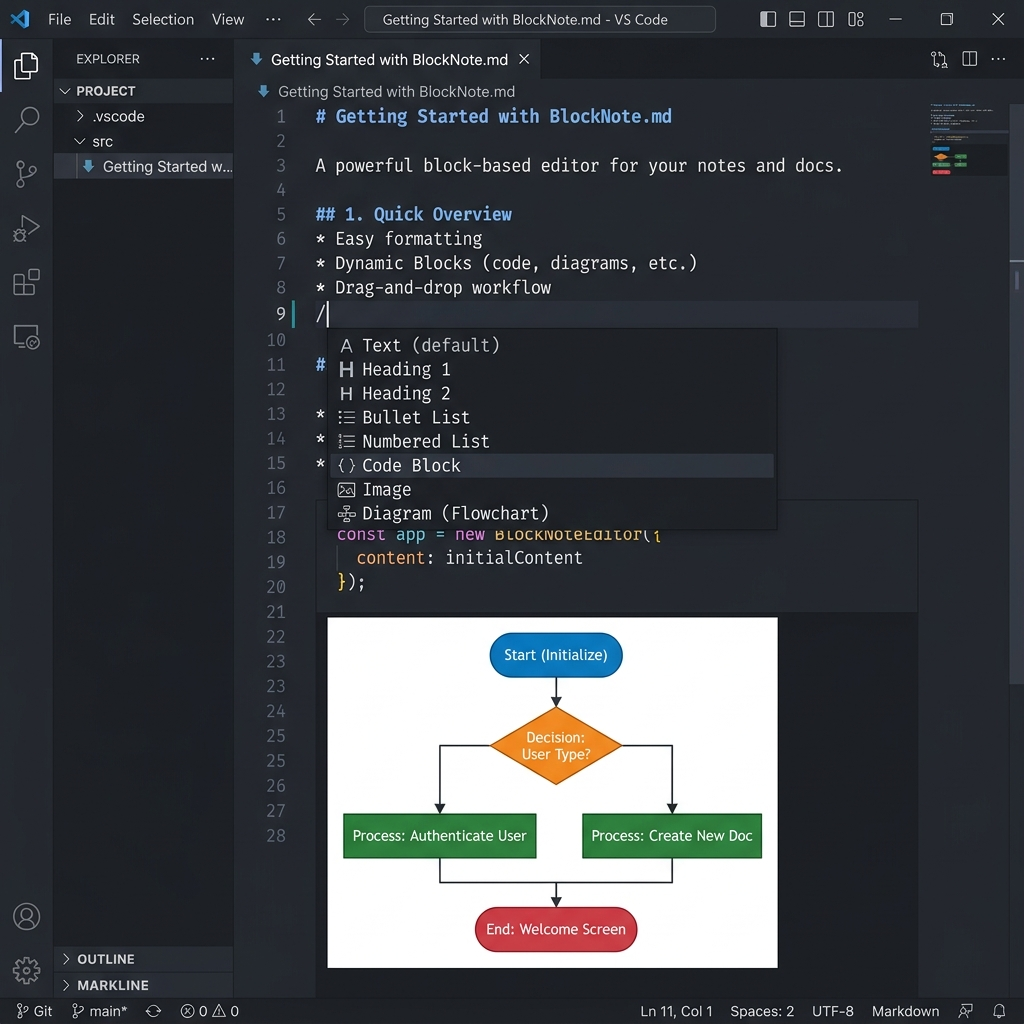
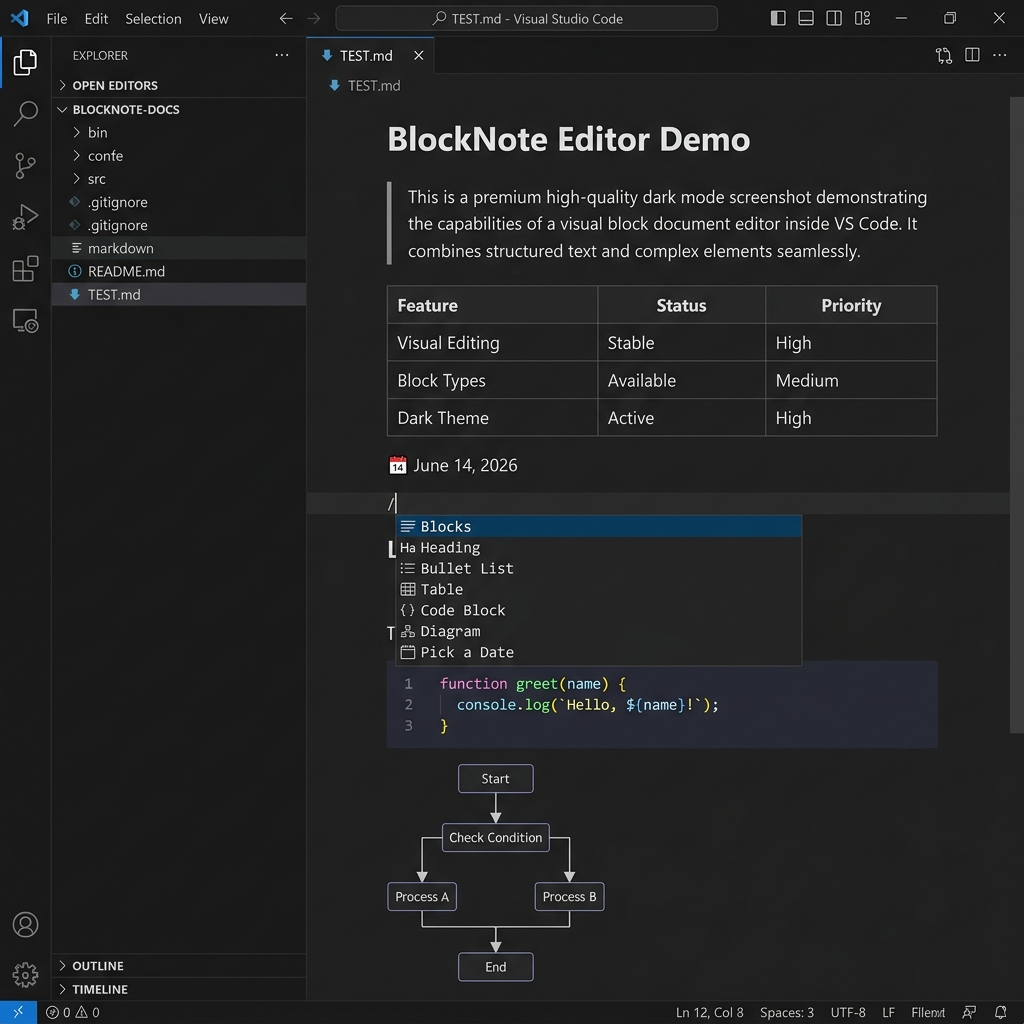
Configure left-aligned WYSIWYG screenshot with slash command menu, update TEST.md demo document, and bump version to 0.0.13

diff --git a/TEST.md b/TEST.md
@@ -1,191 +1,50 @@
-# Syntax Highlighting & Mermaid Test
+# BlockNote Editor Demo
 
-## Mermaid — Flowchart
+This document showcases the rich interactive editing features available in the visual block editor.
 
-```mermaid
-graph TD
-  A[Start] --> B{Is it working?}
-  B -- Yes --> C[Great!]
-  B -- No --> D[Debug]
-  D --> B
-```
+## Text & Typography
 
-## Mermaid — Sequence Diagram
+BlockNote supports standard typographic elements with intuitive visual hierarchy:
+- **Bold**, *italic*, ~~strikethrough~~, and `inline code` styling.
+- Headings from level 1 to 3.
 
-```mermaid
-sequenceDiagram
-  participant User
-  participant Editor
-  participant VSCode
-  User->>Editor: Type /mermaid
-  Editor->>VSCode: Save markdown
-  VSCode-->>Editor: File updated
-```
+> BlockNote brings the power of Notion-style block editing and portability of markdown directly into VS Code. 
 
-## Mermaid — Entity Relationship
+## Tables
 
-```mermaid
-erDiagram
-  USER {
-    int id
-    string name
-    string email
-  }
-  ORDER {
-    int id
-    int user_id
-    float total
-  }
-  USER ||--o{ ORDER : places
-```
+Organize your structured data seamlessly:
 
-# Syntax Highlighting Test
+| Feature | Supported | Description |
+| :--- | :--- | :--- |
+| WYSIWYG Editing | Yes | Edit directly in visual preview |
+| Slash Commands | Yes | Press `/` to insert block types |
+| Custom Blocks | Yes | Mermaid diagrams, dates, images |
 
-## JavaScript
+## Dynamic Date Blocks
+
+You can quickly insert dates using slash commands (`/Today`, `/Tomorrow`, or `/Pick a Date`):
+📅 June 14, 2026
+
+## Code Blocks & Highlighting
+
+Syntax highlighting is powered by **Shiki** with support for popular languages:
 
 ```javascript
+// Function to greet the user
 function greet(name) {
-  const message = `Hello, ${name}!`;
+  const message = `Welcome to BlockNote, ${name}!`;
   console.log(message);
   return message;
 }
-
-greet("world");
 ```
 
-## TypeScript
+## Live Mermaid Diagrams
 
-```typescript
-interface User {
-  id: number;
-  name: string;
-  email?: string;
-}
+Render complex diagrams directly inside the editor:
 
-const getUser = async (id: number): Promise<User> => {
-  const res = await fetch(`/api/users/${id}`);
-  return res.json();
-};
-```
-
-## Python
-
-```python
-def fibonacci(n: int) -> list[int]:
-    a, b = 0, 1
-    result = []
-    for _ in range(n):
-        result.append(a)
-        a, b = b, a + b
-    return result
-
-print(fibonacci(10))
-```
-
-## Bash
-
-```bash
-#!/bin/bash
-for file in *.md; do
-  echo "Processing $file"
-  wc -l "$file"
-done
-```
-
-## Go
-
-```go
-package main
-
-import "fmt"
-
-func main() {
-    nums := []int{1, 2, 3, 4, 5}
-    sum := 0
-    for _, n := range nums {
-        sum += n
-    }
-    fmt.Printf("Sum: %d\n", sum)
-}
-```
-
-## Rust
-
-```rust
-fn main() {
-    let numbers = vec![1, 2, 3, 4, 5];
-    let sum: i32 = numbers.iter().sum();
-    println!("Sum: {}", sum);
-}
-```
-
-## SQL
-
-```sql
-SELECT u.name, COUNT(o.id) AS order_count
-FROM users u
-LEFT JOIN orders o ON u.id = o.user_id
-WHERE u.created_at > '2024-01-01'
-GROUP BY u.id, u.name
-ORDER BY order_count DESC;
-```
-
-## JSON
-
-```json
-{
-  "name": "blocknote-editor",
-  "version": "0.0.1",
-  "features": ["syntax-highlighting", "slash-commands", "dates"],
-  "active": true
-}
-```
-
-## HTML
-
-```html
-<!DOCTYPE html>
-<html lang="en">
-  <head>
-    <meta charset="UTF-8" />
-    <title>Hello</title>
-  </head>
-  <body>
-    <h1 class="title">Hello, world!</h1>
-  </body>
-</html>
-```
-
-## CSS
-
-```css
-.code-block {
-  background-color: #f0f0f0;
-  border-radius: 6px;
-  padding: 12px 16px;
-  font-family: monospace;
-  font-size: 0.85em;
-}
-```
-
-## YAML
-
-```yaml
-name: CI
-on:
-  push:
-    branches: [main]
-jobs:
-  build:
-    runs-on: ubuntu-latest
-    steps:
-      - uses: actions/checkout@v3
-      - run: npm install && npm test
-```
-
-## Plain Text
-
-```text
-This is plain text with no syntax highlighting.
-Just raw content, no colors.
+```mermaid
+graph TD
+  A[Start Editing] --> B{Is it markdown?}
+  B -- Yes --> C[Render in BlockNote]
+  B -- No --> D[Use standard editor]
 ```

diff --git a/README.md b/README.md
@@ -1,6 +1,6 @@
 # BlockNote Markdown Editor
 
-<p align="center">
+<p align="left">
   <img src="images/screenshot.jpg" alt="BlockNote Editor Screenshot" width="800" style="border-radius: 8px; box-shadow: 0 4px 20px rgba(0,0,0,0.15);" />
 </p>
 